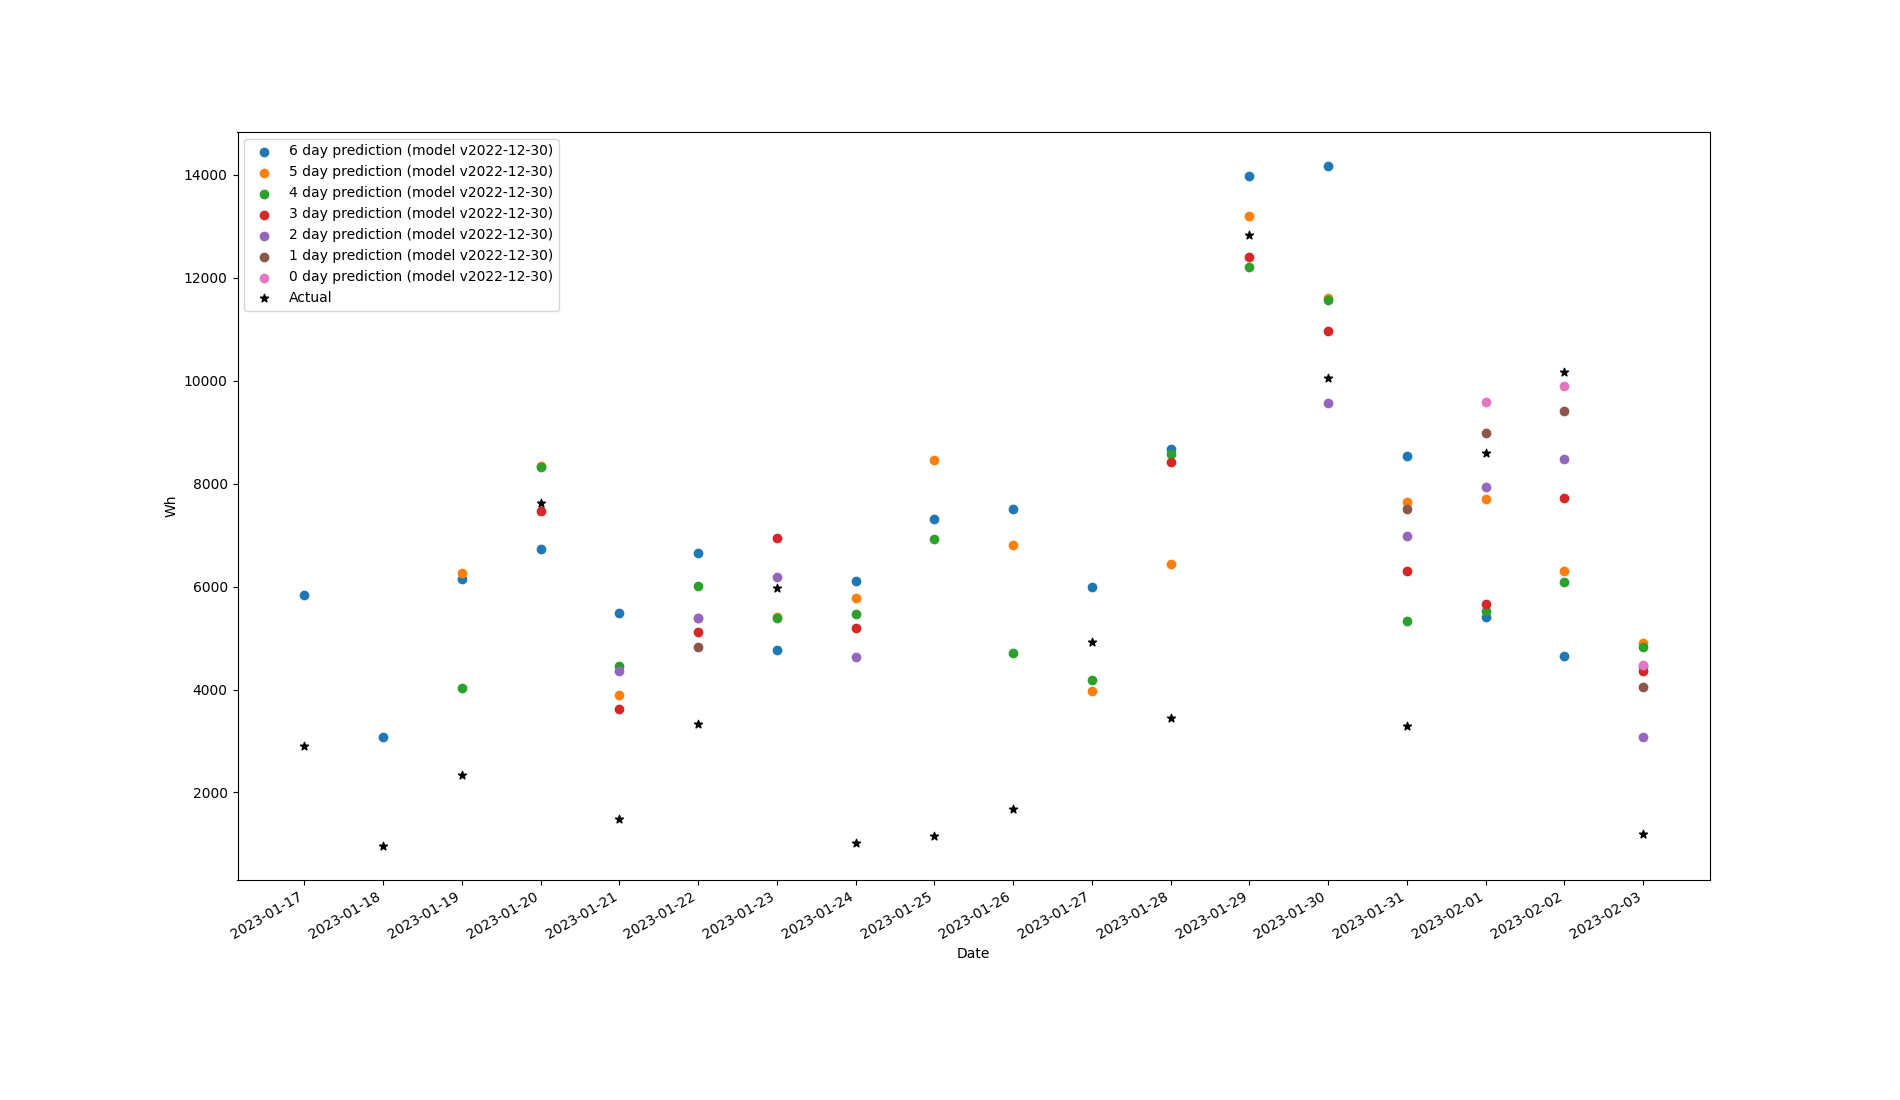
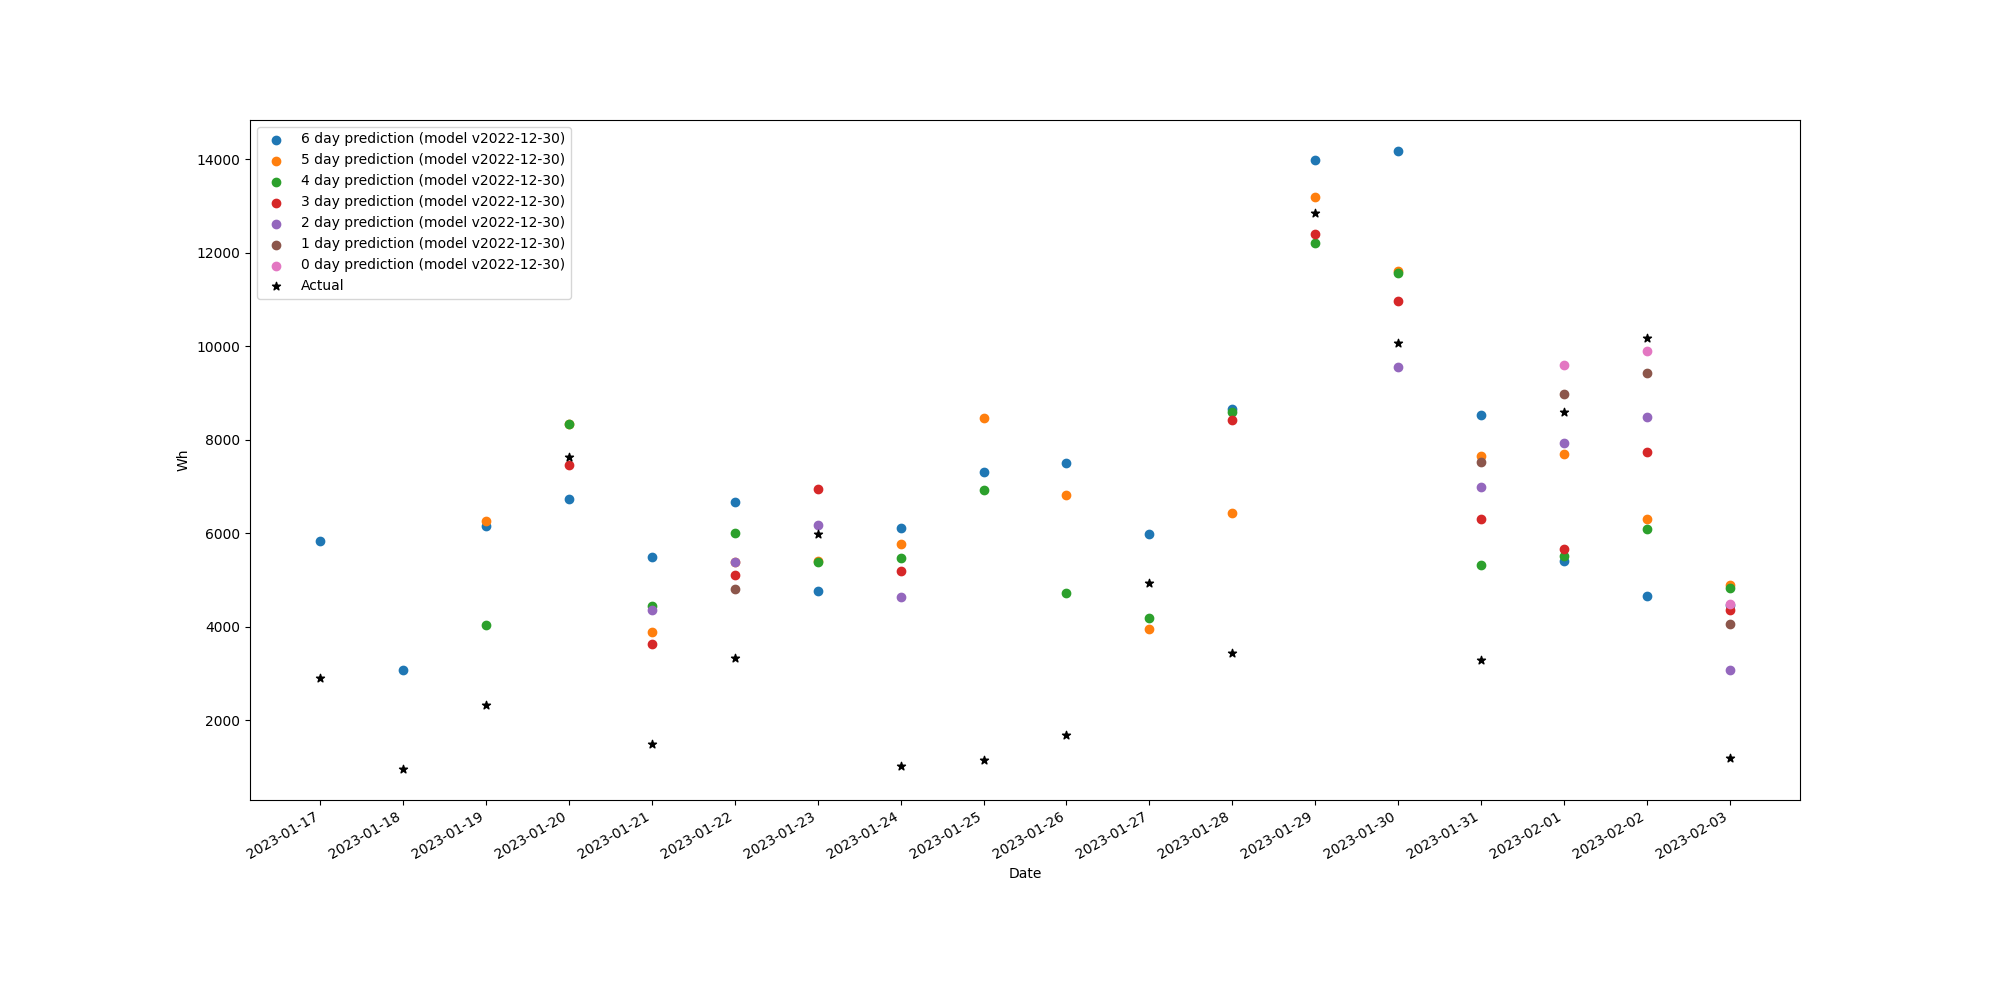
Restrict plot to last ~31 days and hardcode output dims

diff --git a/src/bin/plot.py b/src/bin/plot.py
@@ -29,7 +29,9 @@ query = db_con.execute(
         FROM
             {PREDICTIONS_TBL}
         WHERE
-            actual_energy_production IS NOT NULL;
+            actual_energy_production IS NOT NULL
+            AND
+            today() - prediction_for_date < 32;
     """),
 )
 rows: list[
@@ -106,9 +108,7 @@ fig.autofmt_xdate()
 ax.xaxis.set_major_locator(MultipleLocator(1))
 ax.set_xlabel("Date")
 ax.set_ylabel("Wh")
-manager = plt.get_current_fig_manager()
-window_width, window_height = manager.window.maxsize()
-fig.set(figwidth=window_width // 100, figheight=window_height // 100)
+fig.set(figwidth=20, figheight=10)  # inches
 plt.legend(loc="upper left")
 
 results_folder = pathlib.Path(__file__).parent.parent.parent / "results"
